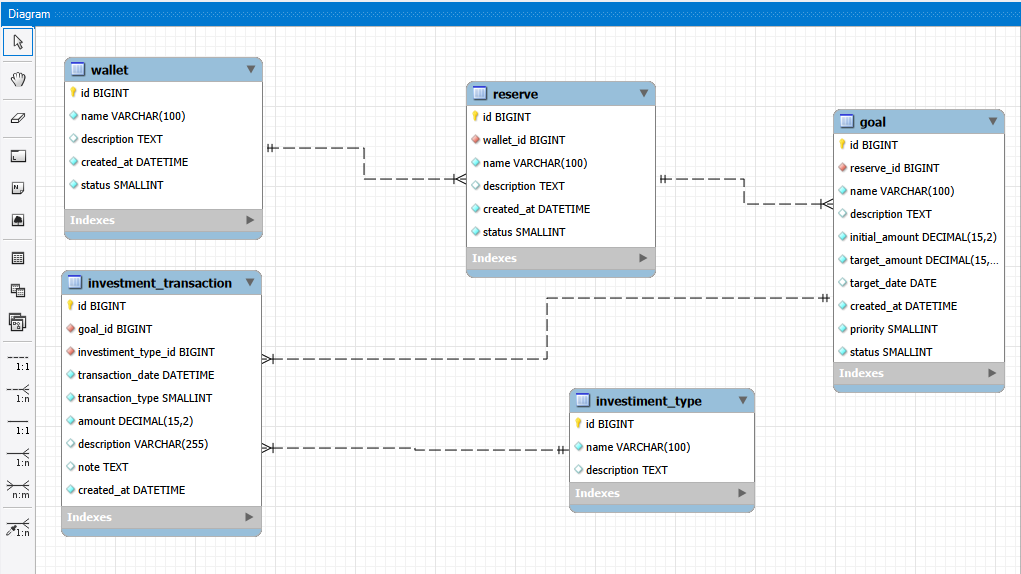
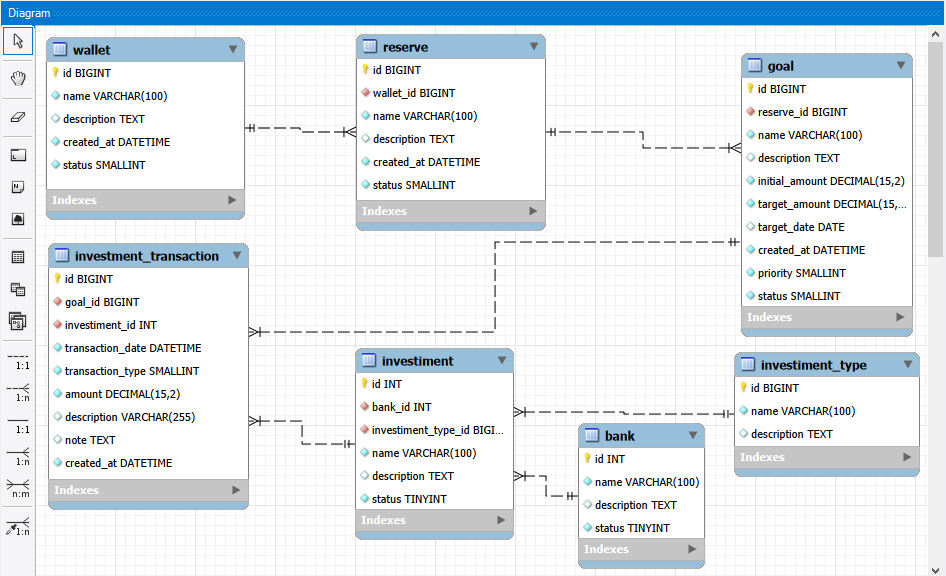
docs: update data base modeling.
Alter at data base model, add new tables (investment, bank).
Always transaction needs a bank.
So, I make new intermediary table investment that has (investiment type and a bank).

diff --git a/README.md b/README.md
@@ -7,3 +7,18 @@ So, I don't know a lot, but this is my firt version with database model, initial
 After, on next commit, I'm going put new things.
 
 se yah later.
+
+-----------------------------------------
+
+Plataforma que serão desenvolvidas:
+Mobile e Web.
+
+Tecnologias que serão utilizadas:
+
+Banco:
+    A principio MySQL, porém depois irei migrar ou para SQL Server, ou para PostgreeSQL.
+Modelagem de Dados:
+    MySQL Workbench.
+
+Back-end:
+    Java + Spring Boot.
